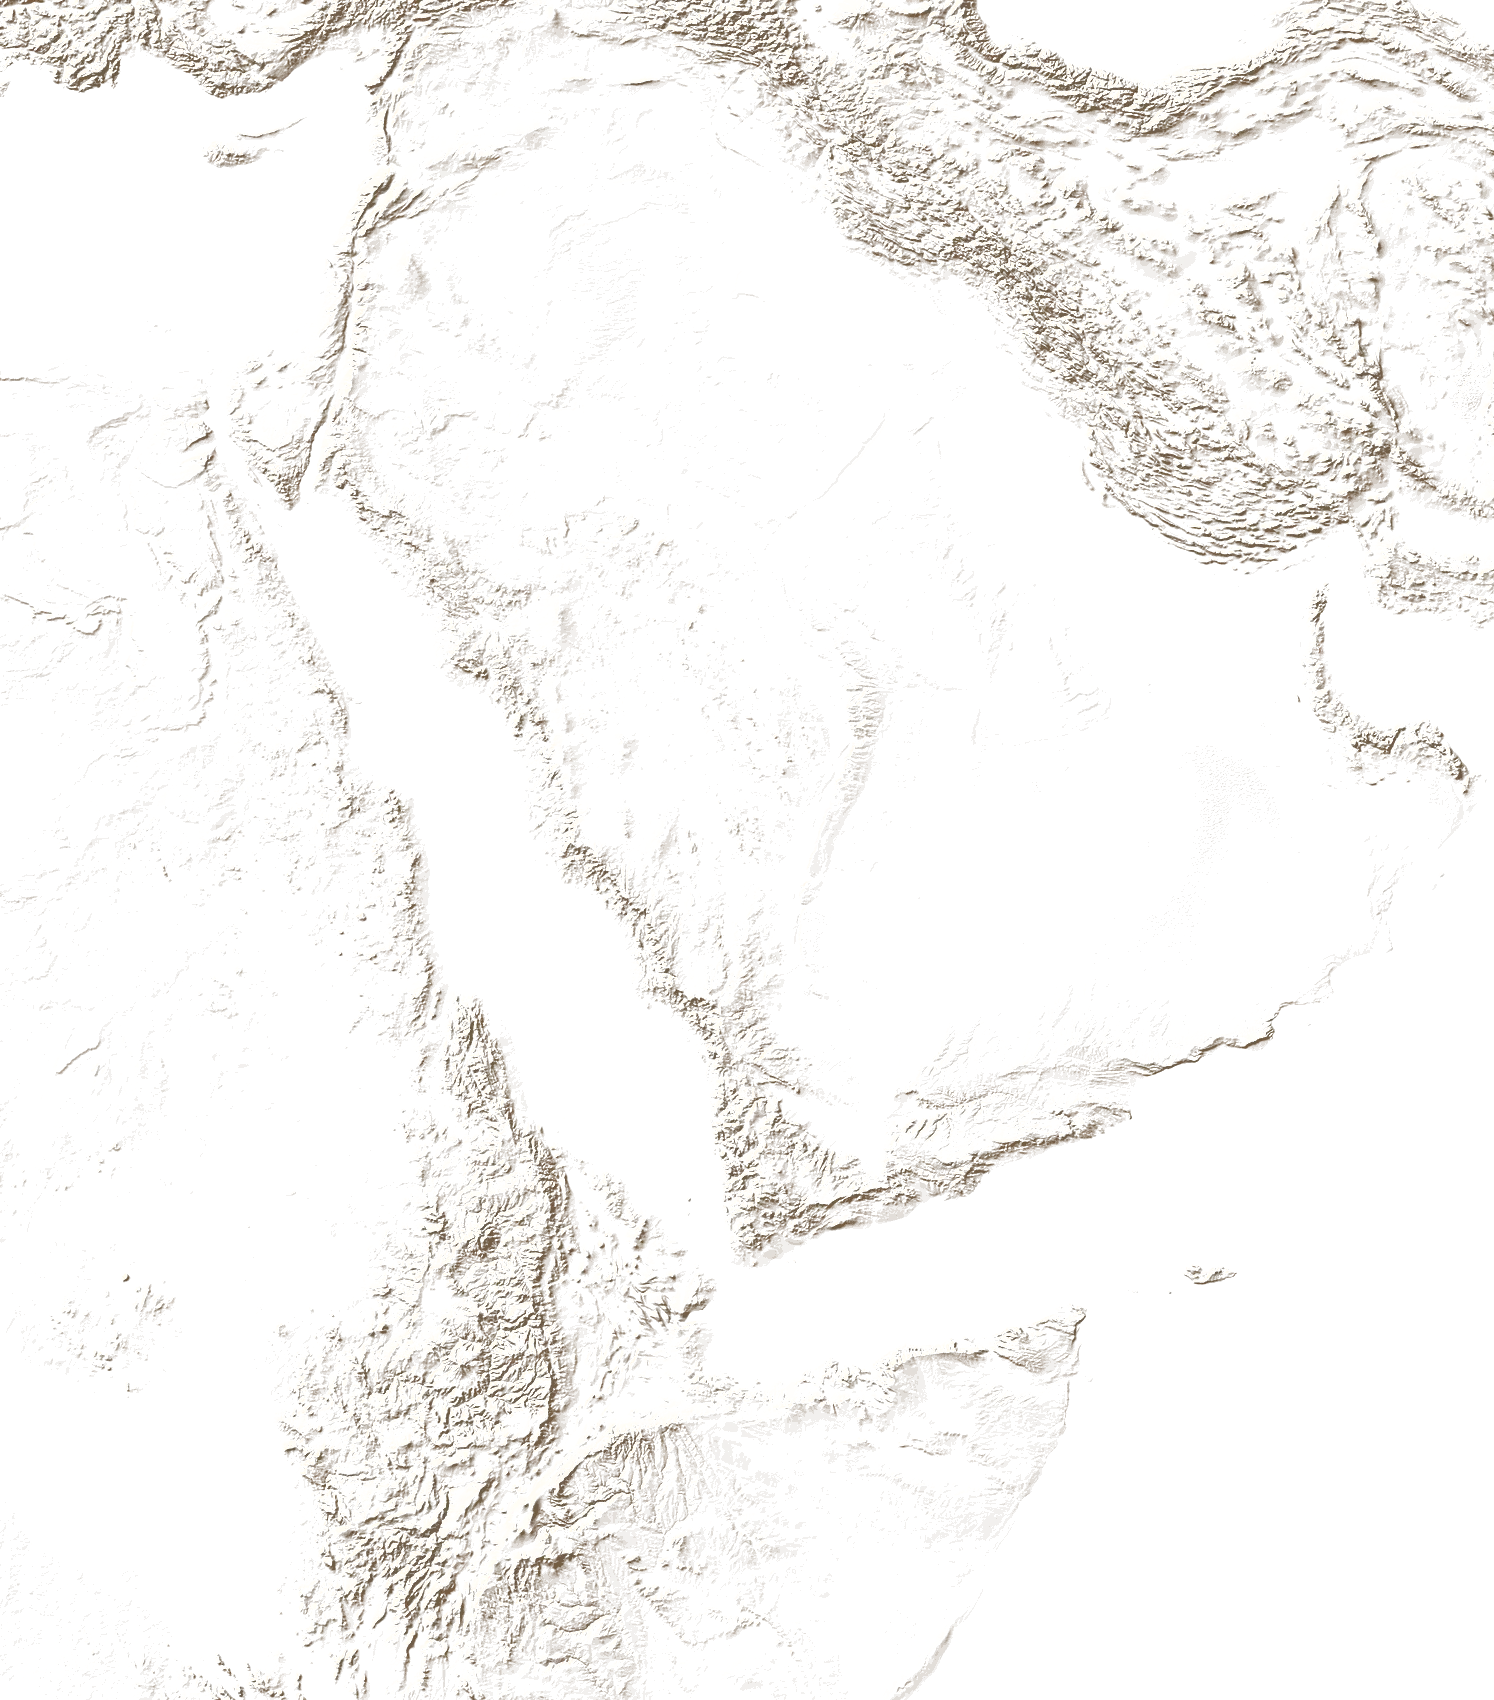
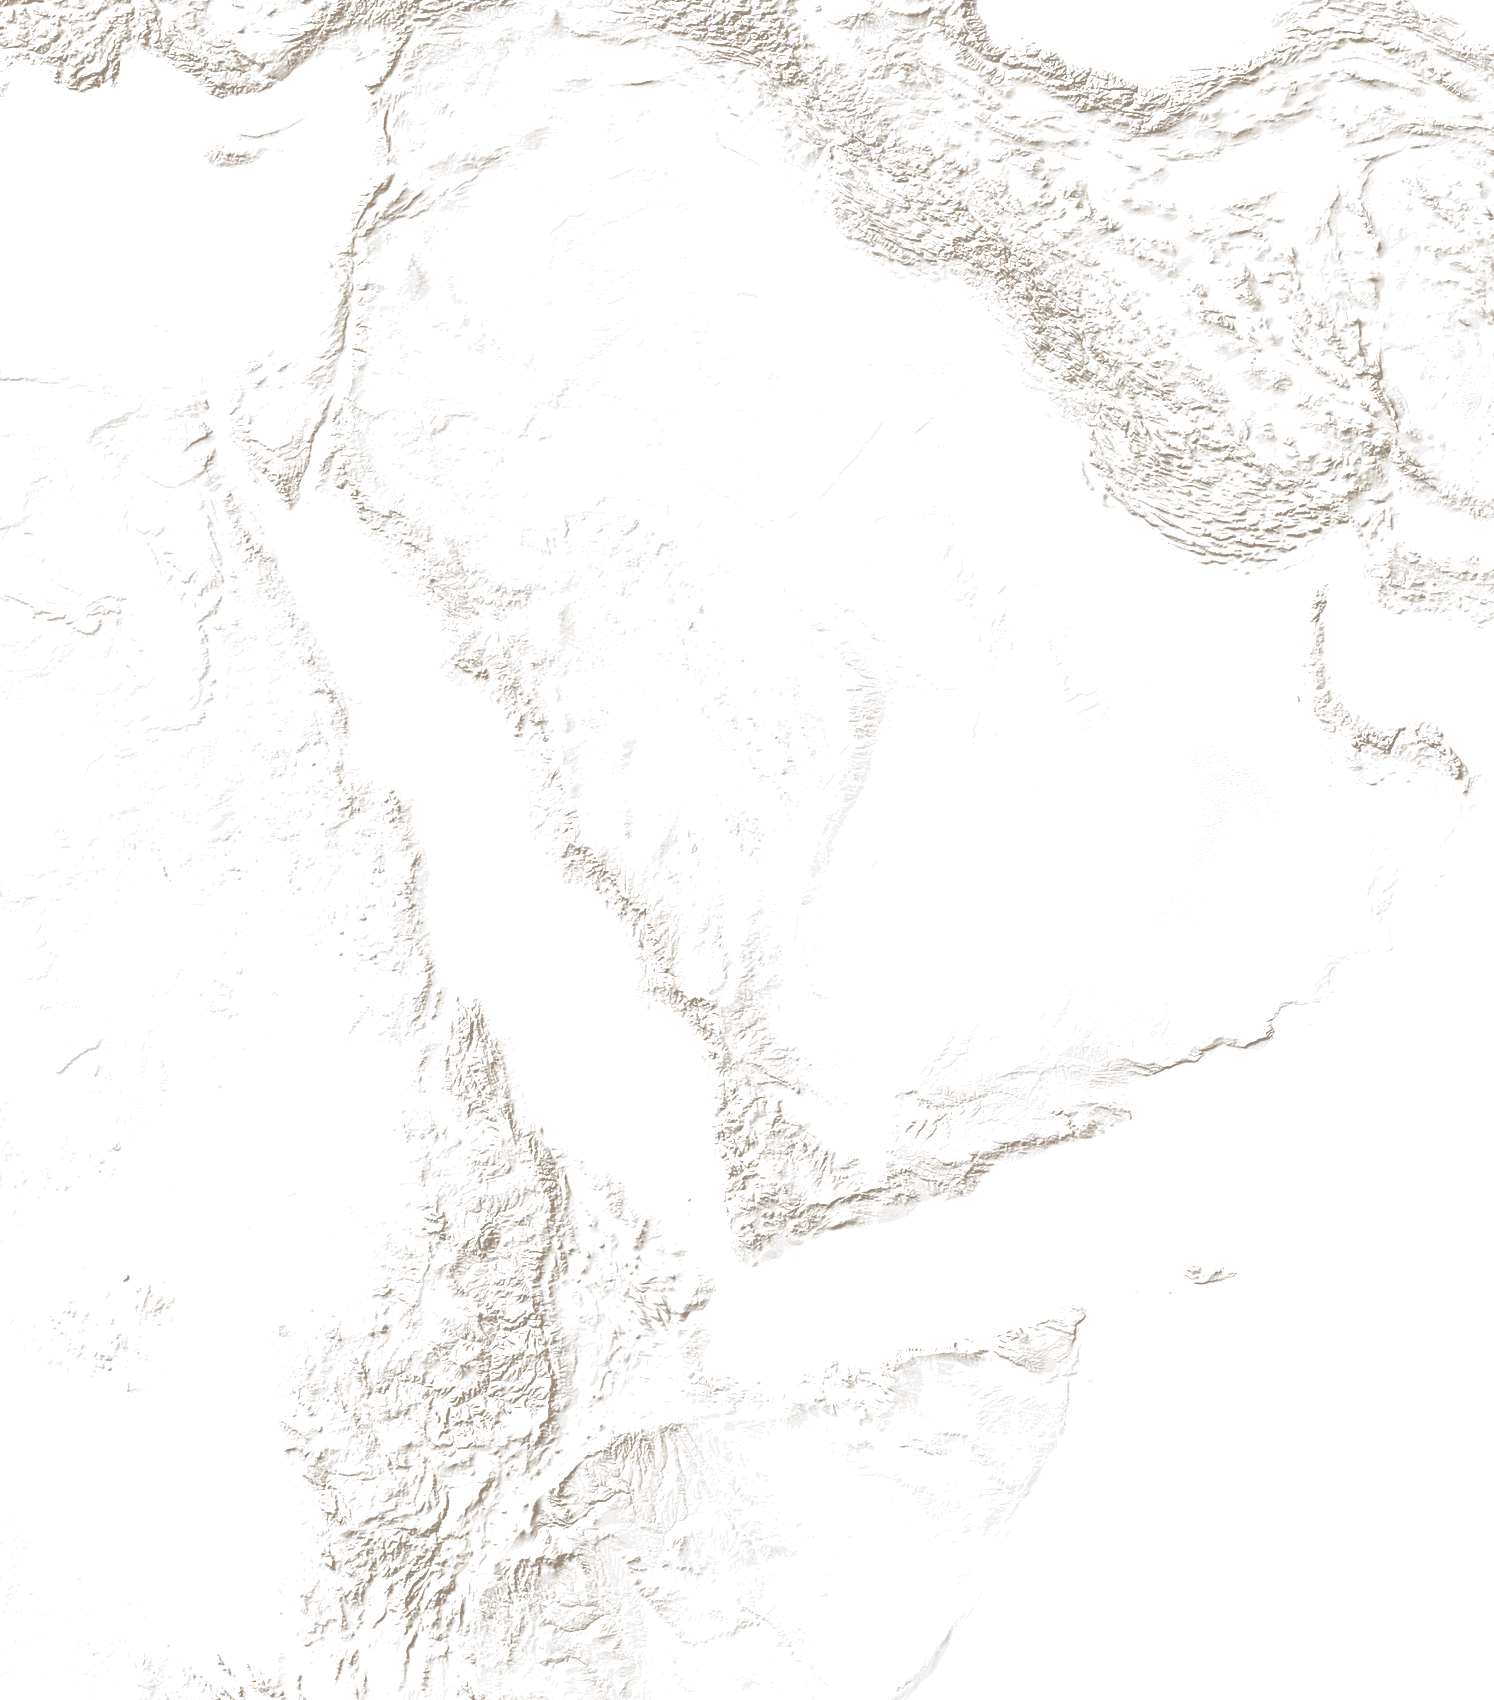
Map keeps its earlier colours: relief as soft shadows only, no pale shallows, lighter sand
Claude-Session: https://claude.ai/code/session_01N8euJch7UjcT7aCurQBqdT

diff --git a/app/src/map/map.css b/app/src/map/map.css
@@ -197,11 +197,11 @@ html[data-contrast='dark'] .hmap-arc.out-honoured .hmap-arc-name, html[data-cont
 html[data-reduced-motion='true'] .hmap-arc-runner { display: none; }
 
 /* Terrain (Natural Earth): baked washes and sea depth, shaded relief, dune crests, lakes and rivers. */
-:root { --relief-opacity: .9; --wash-opacity: 1; --depth-opacity: 1; --river: #7d9a97; }
+:root { --relief-opacity: .8; --wash-opacity: 1; --depth-opacity: 1; --river: #7d9a97; }
 html[data-contrast='light'] { --relief-opacity: .5; --wash-opacity: .6; --depth-opacity: .5; }
 html[data-contrast='dark'] { --relief-opacity: .4; --wash-opacity: .45; --depth-opacity: .25; --river: #4f6f6c; }
 .hmap-terrain { pointer-events: none; }
-.hmap-sand-texture { opacity: .6; }
+.hmap-sand-texture { opacity: .4; }
 .hmap-dune { fill: none; stroke: #b08a4e; stroke-linecap: round; opacity: .5; }
 html[data-contrast='dark'] .hmap-dune { stroke: #c2a170; opacity: .35; }
 html[data-contrast='dark'] .hmap-relief { opacity: var(--relief-opacity); }

diff --git a/app/scripts/build-terrain.py b/app/scripts/build-terrain.py
@@ -1,10 +1,10 @@
 """Build the map's terrain from Natural Earth (public domain), in the same projection as src/data/land.ts.
 
 Writes:
-  public/map/relief.webp   shaded relief (Natural Earth SR_HR, 1:10m), tinted: shadows brown, sunlit slopes cream,
-                           flat ground transparent, so it sits on the land colour of any theme
+  public/map/relief.webp   shaded relief (Natural Earth SR_HR, 1:10m) as soft brown shadows only: sunlit slopes and
+                           flat ground stay clear, so the land keeps its own colour (a paler land made the map glare)
   public/map/wash.webp     soft washes on the land: sand seas, fertile lands, and a shade just inside the coast
-  public/map/depth.webp    the sea's depth: pale shallows along the coast, deeper water offshore
+  public/map/depth.webp    the sea's depth: a slight darkening offshore (the sea keeps its colour at the coast)
   src/data/terrain.ts      outlines of the sand seas (for their dune texture), rivers and lakes
 The soft layers are baked into images because a browser redraws an SVG on every frame of a pan or zoom, and wide
 blurred strokes along a long coastline are slow to draw; an image costs almost nothing to move.
@@ -48,12 +48,11 @@ flat = float(np.median(v))                               # level ground (206 in 
 d = v - flat
 rgba = np.zeros(v.shape + (4,), np.uint8)
 shade = d < 0
-rgba[shade, :3] = (86, 58, 30)                          # shadow: warm brown
-rgba[~shade, :3] = (255, 251, 240)                      # sunlit slope: cream
+rgba[..., :3] = (86, 58, 30)                            # shadow: warm brown
 # Near-level ground (within a few shades of flat) is left fully clear: it is most of the map, and noise there would
 # only add weight to the file.
 dead = 6
-alpha = np.where(shade, np.clip((-d - dead) / 110, 0, 1) ** 0.8 * 210, np.clip((d - dead) / 36, 0, 1) * 150)
+alpha = np.where(shade, np.clip((-d - dead) / 120, 0, 1) ** 0.85 * 150, 0)
 alpha = np.round(alpha / 6) * 6                          # fewer distinct levels compress far better
 rgba[..., 3] = alpha.astype(np.uint8)
 out = APP / 'public' / 'map'
@@ -155,9 +154,8 @@ def save(img, name):
 
 wash = np.zeros(land.shape + (4,), np.float32)
 wash = over(wash, (138, 154, 88), feather(mask(projected(FERTILE)), 10) * .14)      # fertile: olive
-wash = over(wash, (232, 201, 140), feather(mask(projected(SAND)), 9) * .34)         # sand: warm gold
+wash = over(wash, (232, 201, 140), feather(mask(projected(SAND)), 9) * .22)         # sand: warm gold, light enough for lines to read over it
 wash = over(wash, (168, 141, 99), np.exp(-inland / 7) * .13 * (land > .5))         # shade inside the coast
 depth = np.zeros(land.shape + (4,), np.float32)
-depth = over(depth, (60, 84, 86), (1 - np.exp(-offshore / 70)) * .2)                # deep water: darker
-depth = over(depth, (252, 249, 238), np.exp(-offshore / 9) * .4 * (land <= .5))     # shallows: paler
+depth = over(depth, (60, 84, 86), (1 - np.exp(-offshore / 70)) * .14)               # deep water: a little darker
 print('wash', save(wash, 'wash.webp'), 'KB; depth', save(depth, 'depth.webp'), 'KB')
